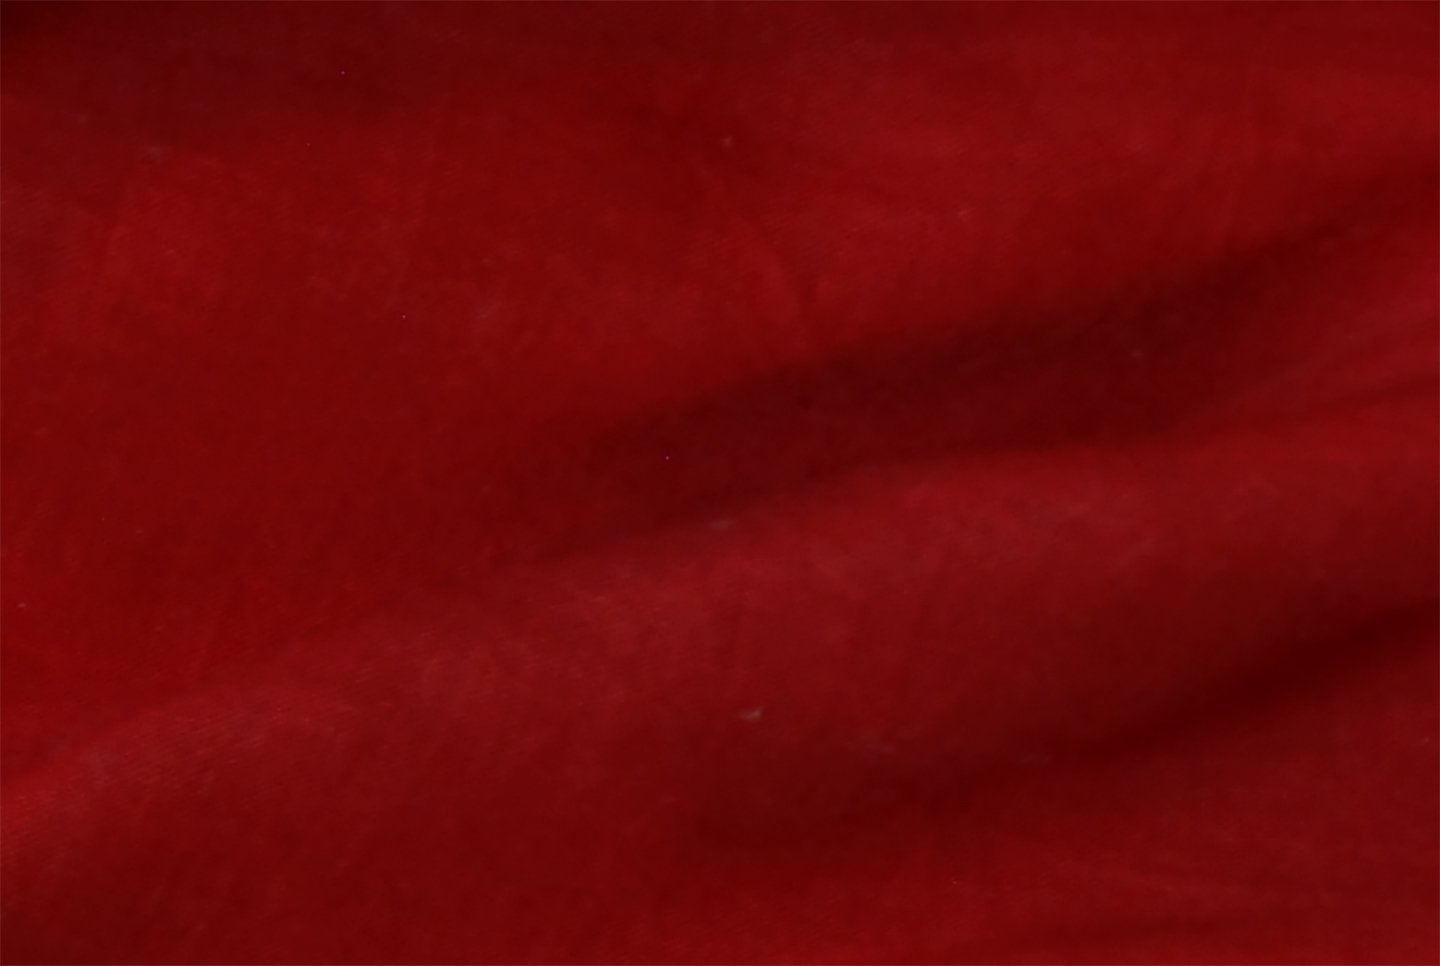
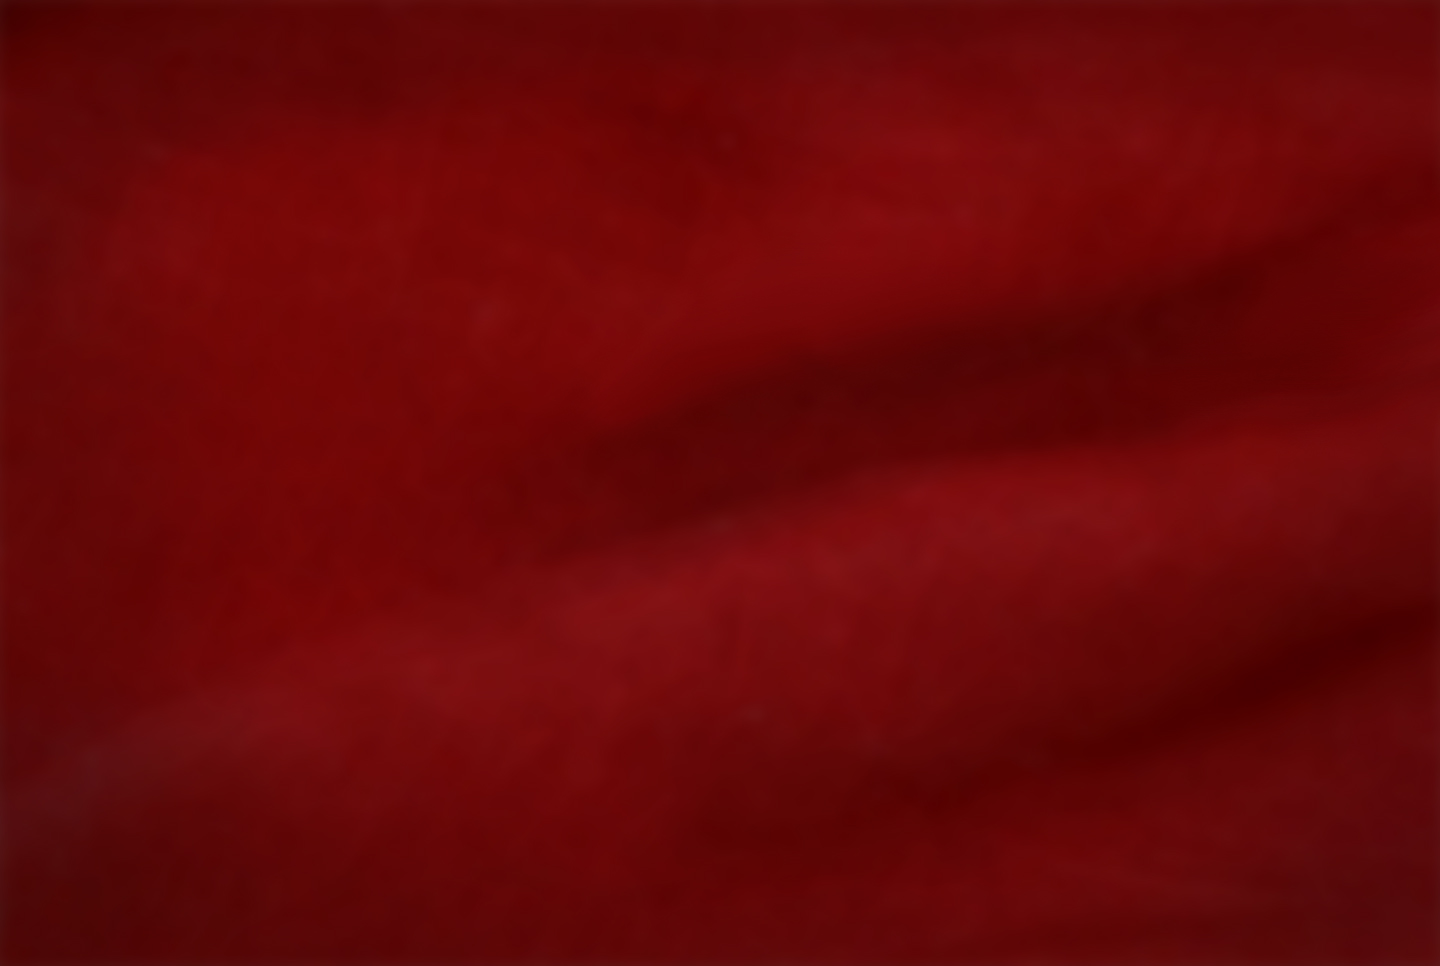
fixed crew background to cover, fixed text/chevron overlap, a,dnd fixed backgrouns sfullscreen1-snoothedand and despeckled

Changed region(s): [[0.0, 0.559, 1.0, 1.0], [0.9375, 0.2795, 1.0, 0.3416], [0.9375, 0.8696, 0.9688, 0.9006]]

diff --git a/index.html b/index.html
@@ -238,7 +238,7 @@
 						<font style="color:#ffcc65;font-size:1.5em;font-family: 'orchideemedium';">
 							scroll please
 						</font>
-						<i class="icon-double-angle-down" id="iconHome" style="color:#ffcc65;font-size: 6em;"></i>
+						<i class="icon-double-angle-down" id="iconHome" style="color:#ffcc65;font-size: 6em;padding-top:25px;"></i>
 					</a>
                 </div>
            
@@ -325,7 +325,8 @@
 
             <!--################ CREW SECTION START ################-->
 
-            <section id="crew"style="background-image:url('images/fullscreen1.jpg');background-repeat:no-repeat;background-attachment:fixed;">
+            <section id="crew"style="background-image:url('images/fullscreen1.jpg');background-repeat:no-repeat;background-attachment:fixed;
+			background-size:cover;-webkit-background-size:cover;-moz-background-size:cover;-o-background-size:cover;">
 <br/><br/><br/><br/>
                 <div class="container" id="portfolio">
 
